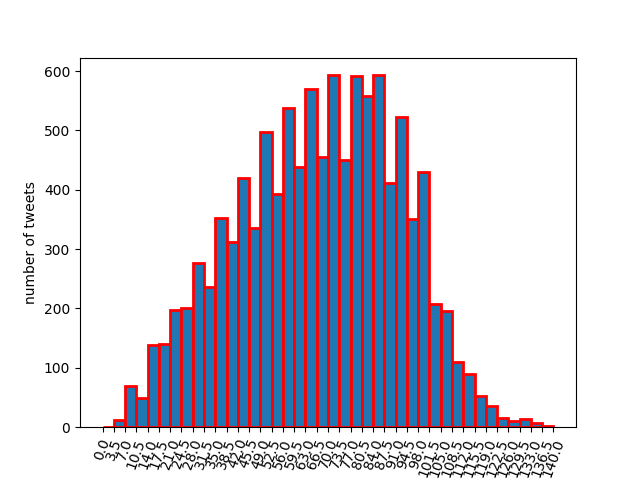
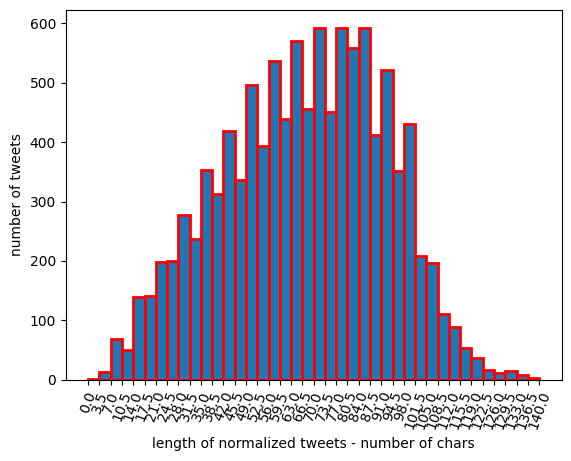
saving plots with 'bbox_inches=tight' setting

diff --git a/src/eda_plot.py b/src/eda_plot.py
@@ -32,7 +32,7 @@ def plot_hist_length(data, bins, level):
     ax.xaxis.set_major_formatter(FormatStrFormatter('%0.1f'))
     ax.set_xticklabels(labels=bins, rotation=70)
     #plt.show()
-    plt.savefig(f'plot_hist_tweet_{level}_count.png')
+    plt.savefig(f'plot_hist_tweet_{level}_count.png', bbox_inches='tight')
 
 
 def plot_topn_words(data, n):
@@ -68,7 +68,7 @@ def plot_topn_words(data, n):
         ax.set_xlabel(f'top {n} words')
     fig.align_labels()
     #plt.show()
-    plt.savefig('plot_topn_words_by_class.png')
+    plt.savefig('plot_topn_words_by_class.png', bbox_inches='tight')
 
 
 # taking cue from Emmanuel Ameisen's notebook
@@ -100,4 +100,4 @@ def plot_confusion_matrix(x_test, y_test, saved_model, normalize=False):
     plt.ylabel('True label', fontsize=20)
     plt.xlabel('Predicted label', fontsize=20)
     #plt.show()
-    plt.savefig('plot_confusion_matrix.png')
+    plt.savefig('plot_confusion_matrix.png', bbox_inches='tight')
